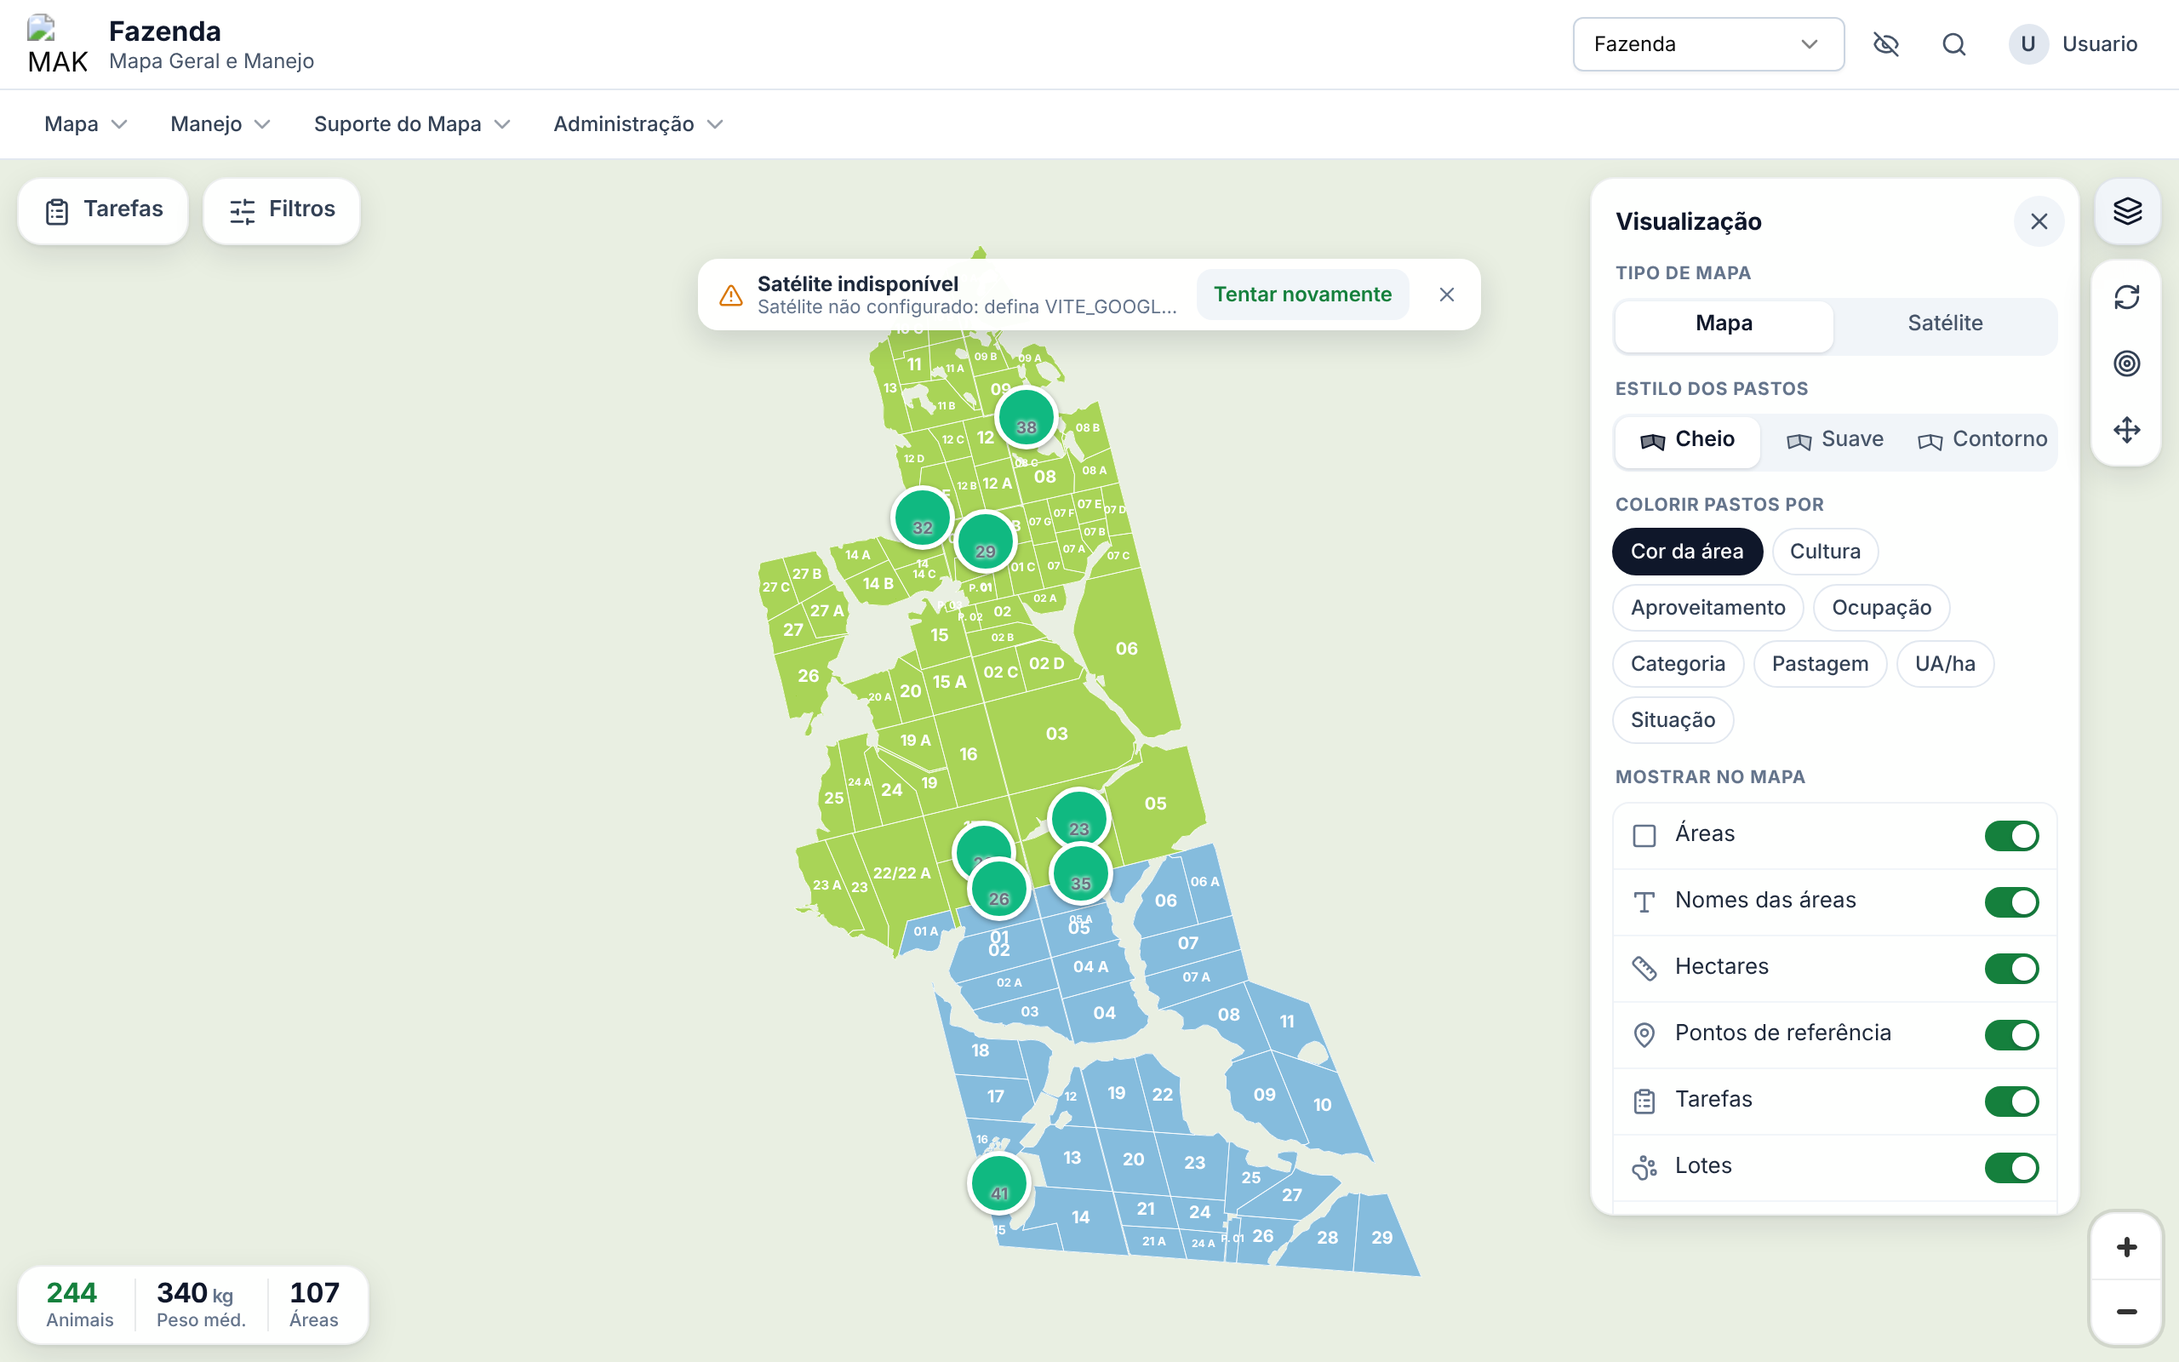
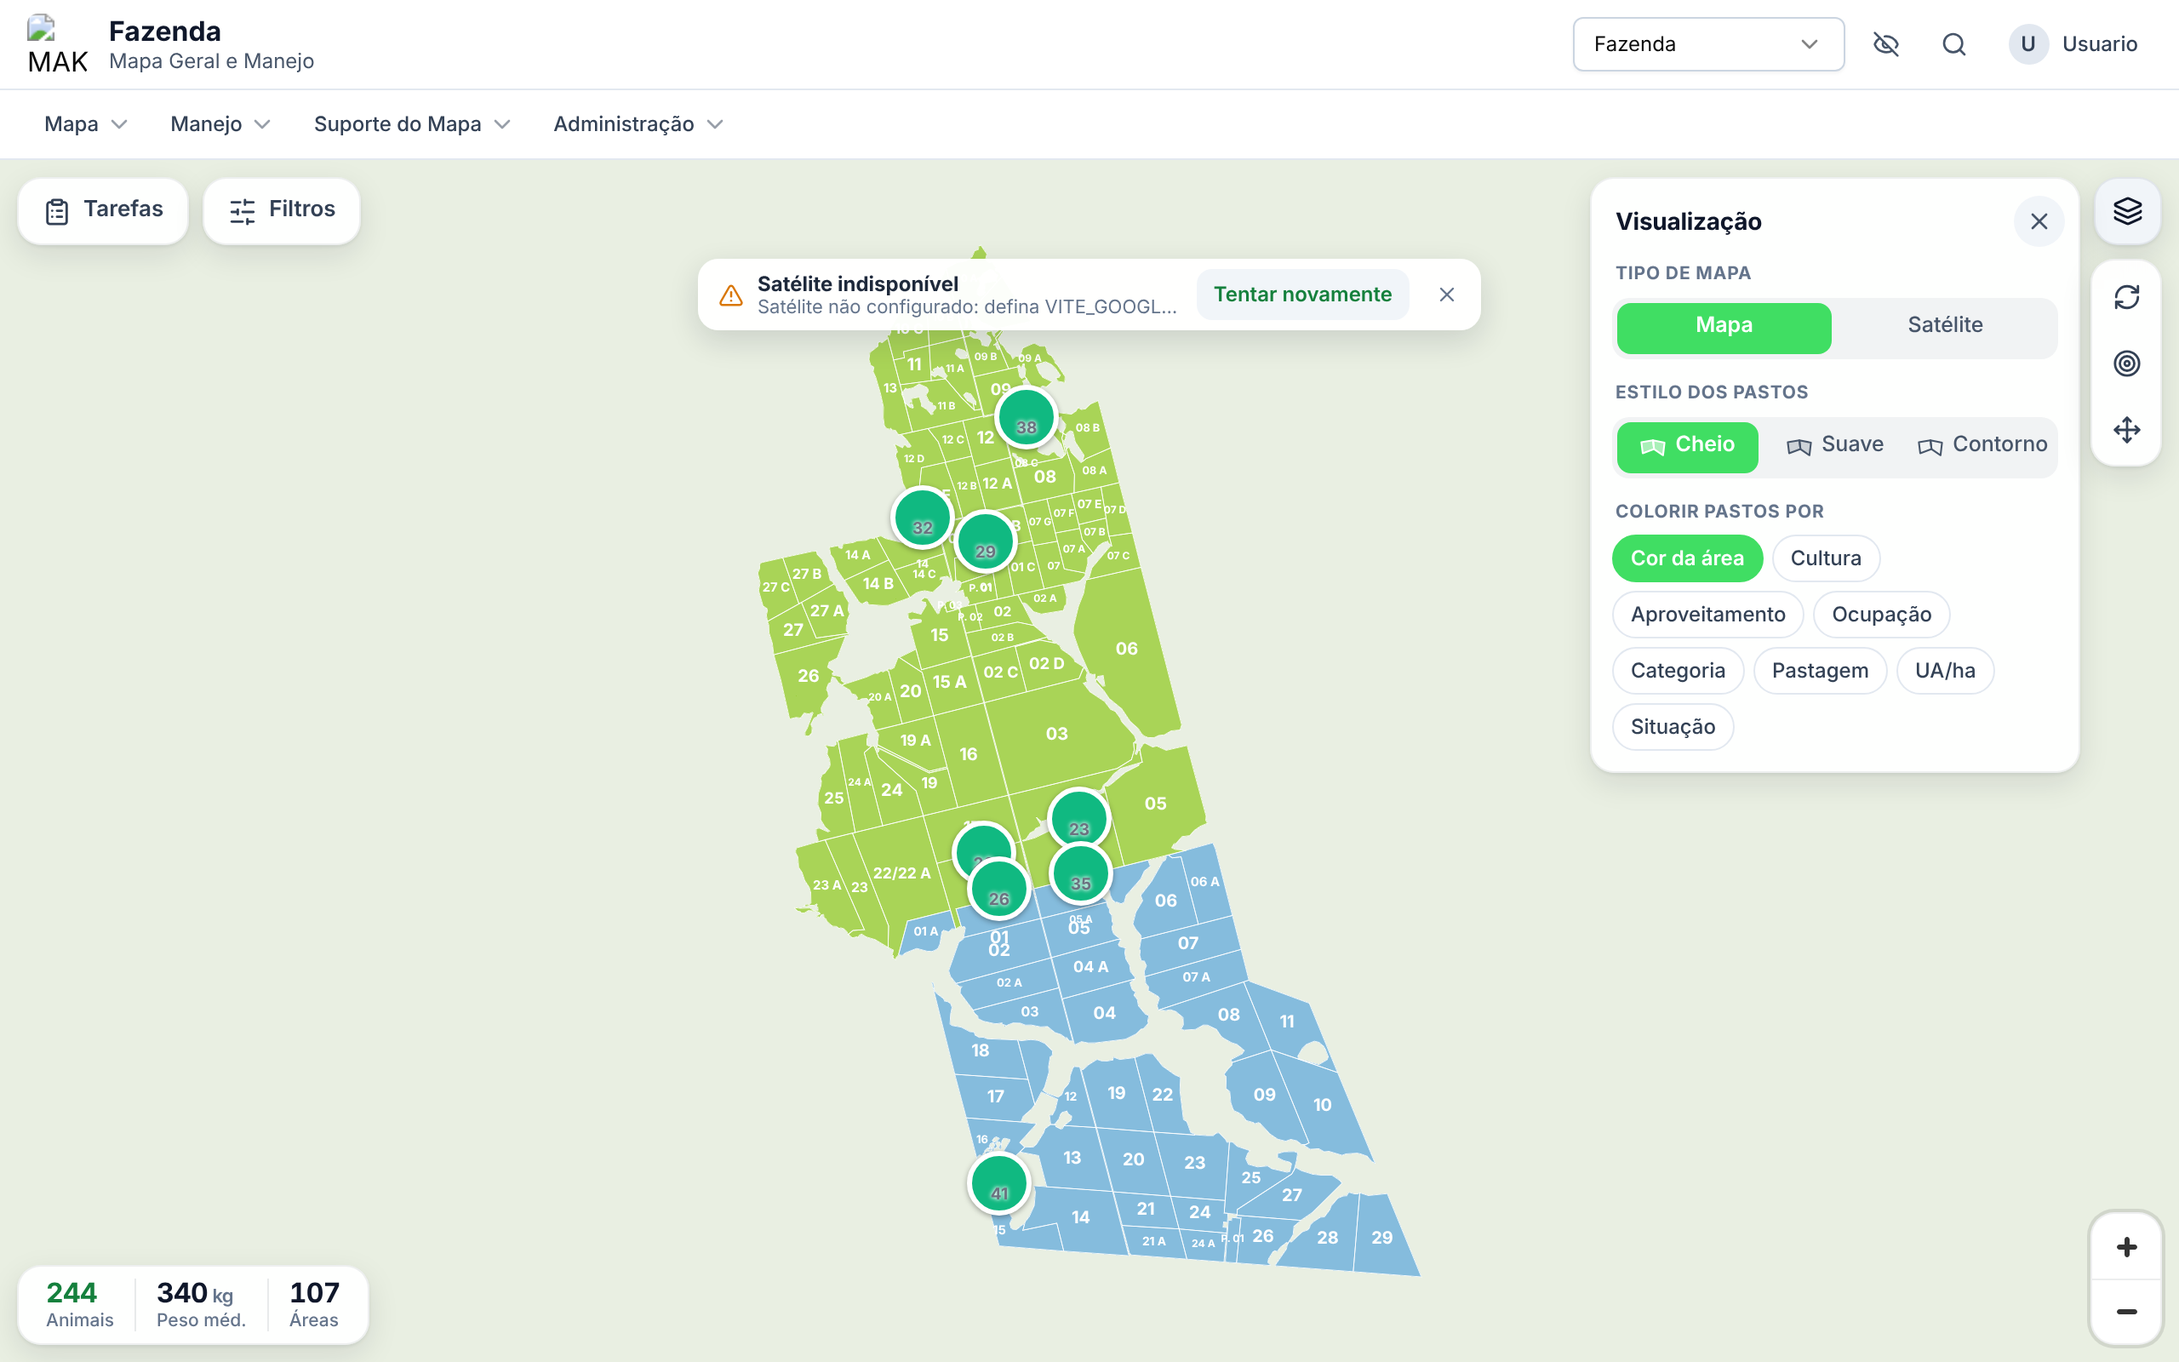
Mapa Geral: mostrar ou não volta para os Filtros; ativo verde e chave igual aos lançamentos (D-PROD-132)
- Visualização só com tipo de mapa, estilo e cores dos pastos.
- Filtros: seção Mostrar no mapa com a chave padrão (ToggleSwitch); remove o switch do shadcn, que ficou sem uso.
- Escolhas do painel com o ativo verde dos lançamentos.

Claude-Session: https://claude.ai/code/session_01UazgFfaVrfzGvoj5VQP7sQ

Changed region(s): [[0.7188, 0.2188, 0.9688, 0.9062], [0.875, 0.2188, 0.9062, 0.25]]

diff --git a/src/components/mapa/MapaFiltrosAvancados.jsx b/src/components/mapa/MapaFiltrosAvancados.jsx
@@ -2,10 +2,10 @@ import React from "react";
 import { Button } from "@/components/ui/button";
 import { Badge } from "@/components/ui/badge";
 import { Select, SelectContent, SelectItem, SelectTrigger, SelectValue } from "@/components/ui/select";
-import { Switch } from "@/components/ui/switch";
 import { Label } from "@/components/ui/label";
 import { Separator } from "@/components/ui/separator";
 import { Input } from "@/components/ui/input";
+import ToggleSwitch from "@/components/common/ToggleSwitch";
 
 // Cores por tipo de cultura
 export const CORES_TIPO_CULTURA = {
@@ -127,12 +127,12 @@ export default function MapaFiltrosAvancados({
   setores = [],
   sistemasProdutivos = [],
   permissions = null,
-  mostrarVisualizacao = true
+  mostrarCores = true
 }) {
 
-  // Camadas e "Demarcar áreas por" vivem no painel Visualização (D-PROD-132);
-  // `mostrarVisualizacao` mantém o painel completo onde ainda for usado.
-  const availableLayers = mostrarVisualizacao ? camadasDoMapa({ showAreas, setShowAreas, showPontos, setShowPontos, showLinhas, setShowLinhas, showLotes, setShowLotes, showTarefas, setShowTarefas, showCochos, setShowCochos, showDepositos, setShowDepositos, showAlertas, setShowAlertas, showUserLocation, setShowUserLocation, showNomesAreas, setShowNomesAreas, showHectaresAreas, setShowHectaresAreas, permissions }) : [];
+  // D-PROD-132: "mostrar ou não" (camadas) fica nos Filtros; o "Demarcar áreas
+  // por" (cores) vai para o painel Visualização quando `mostrarCores` é false.
+  const availableLayers = camadasDoMapa({ showAreas, setShowAreas, showPontos, setShowPontos, showLinhas, setShowLinhas, showLotes, setShowLotes, showTarefas, setShowTarefas, showCochos, setShowCochos, showDepositos, setShowDepositos, showAlertas, setShowAlertas, showUserLocation, setShowUserLocation, showNomesAreas, setShowNomesAreas, showHectaresAreas, setShowHectaresAreas, permissions });
 
   return (
     <div className="rounded space-y-1">
@@ -141,16 +141,14 @@ export default function MapaFiltrosAvancados({
       <>
           <div className="space-y-0 px-1">
             <div className="space-y-0 px-1">
-              <span className="text-xs font-bold text-slate-800 uppercase">Camadas</span>
+              <span className="text-xs font-bold text-slate-800 uppercase">Mostrar no mapa</span>
             </div>
             <div className="space-y-0">
               {availableLayers.map((item) =>
-            <label key={item.label} className="flex items-center justify-between cursor-pointer hover:bg-slate-50 px-2 py-1.5 rounded-lg">
-                  <div className="flex items-center gap-2">
-                    <div className="bg-green-600 text-zinc-50 rounded-full w-2.5 h-2.5" />
-                    <span className="text-xs font-medium text-slate-700">{item.label}</span>
-                  </div>
-                  <Switch checked={item.checked} onCheckedChange={item.onChange} className="scale-75" />
+            <label key={item.label} className="flex items-center justify-between gap-3 cursor-pointer hover:bg-slate-50 px-2 py-1.5 rounded-lg">
+                  <span className="text-xs font-medium text-slate-700">{item.label}</span>
+                  {/* D-PROD-132: mesma chave liga/desliga dos cadastros e lançamentos */}
+                  <ToggleSwitch checked={item.checked} onChange={() => item.onChange()} ariaLabel={item.label} />
                 </label>
             )}
             </div>
@@ -160,7 +158,7 @@ export default function MapaFiltrosAvancados({
       }
 
       {/* ─── Modo de Coloração das Áreas ─── */}
-      {mostrarVisualizacao && permissions?.visualizar_areas !== false &&
+      {mostrarCores && permissions?.visualizar_areas !== false &&
       <div>
           <div className="mb-3">
             <span className="text-xs font-bold text-slate-800 uppercase">DEMARCAR ÁREAS POR</span>
@@ -203,7 +201,7 @@ export default function MapaFiltrosAvancados({
         </div>
       }
 
-      {mostrarVisualizacao && permissions?.visualizar_areas !== false && <Separator />}
+      {mostrarCores && permissions?.visualizar_areas !== false && <Separator />}
 
       {/* ─── Filtros de Áreas ─── */}
       {permissions?.visualizar_areas !== false &&

diff --git a/src/styles/mapa-geral.css b/src/styles/mapa-geral.css
@@ -389,10 +389,10 @@
 /* Escolha segmentada (tipo de mapa, estilo dos pastos) */
 .mk-vis__seg {
   display: flex;
-  gap: 2px;
-  padding: 2px;
+  gap: 4px;
+  padding: 3px;
   border-radius: 10px;
-  background: #f1f5f9;
+  background: #f1f3f4;
 }
 .mk-vis__seg-op {
   display: inline-flex;
@@ -408,11 +408,12 @@
   color: #475569;
 }
 .mk-vis__seg-op:hover { color: var(--mk-mapa-texto); }
-.mk-vis__seg-op[aria-pressed="true"] {
-  background: #fff;
-  box-shadow: 0 1px 2px rgba(15, 23, 42, 0.12);
+/* Escolhida = igual aos lançamentos (LancLoteSegmento): verde do sistema, texto branco */
+.mk-vis__seg-op[aria-pressed="true"],
+.mk-vis__seg-op[aria-pressed="true"]:hover {
+  background: var(--mg-accent, #40de63);
   font-weight: 600;
-  color: var(--mk-mapa-texto);
+  color: #fff;
 }
 .mk-vis__ico { width: 16px; height: 12px; flex: none; }
 .mk-vis__ico path { stroke: currentColor; stroke-width: 1.3; stroke-linejoin: round; fill: currentColor; }
@@ -433,7 +434,7 @@
   color: #334155;
 }
 .mk-vis__chip:hover { background: #f8fafc; }
-.mk-vis__chip[aria-pressed="true"] { border-color: var(--mk-mapa-texto); background: var(--mk-mapa-texto); color: #fff; }
+.mk-vis__chip[aria-pressed="true"] { border-color: var(--mg-accent, #40de63); background: var(--mg-accent, #40de63); font-weight: 600; color: #fff; }
 
 /* Mostrar no mapa: linhas com chave liga/desliga */
 .mk-vis__lista { margin: 0; padding: 0; list-style: none; border-radius: 10px; border: 1px solid #eef2f6; overflow: hidden; }
@@ -452,29 +453,7 @@
 .mk-vis__linha:hover { background: #f8fafc; }
 .mk-vis__linha-ic { flex: none; color: #64748b; }
 .mk-vis__linha-txt { flex: 1; min-width: 0; overflow: hidden; white-space: nowrap; text-overflow: ellipsis; }
-.mk-vis__chave {
-  position: relative;
-  flex: none;
-  width: 32px;
-  height: 18px;
-  border-radius: 9999px;
-  background: #cbd5e1;
-  transition: background-color 0.15s;
-}
-.mk-vis__chave::after {
-  content: "";
-  position: absolute;
-  top: 2px;
-  left: 2px;
-  width: 14px;
-  height: 14px;
-  border-radius: 9999px;
-  background: #fff;
-  box-shadow: 0 1px 2px rgba(15, 23, 42, 0.25);
-  transition: transform 0.15s;
-}
-.mk-vis__linha[aria-checked="true"] .mk-vis__chave { background: var(--mk-mapa-verde); }
-.mk-vis__linha[aria-checked="true"] .mk-vis__chave::after { transform: translateX(14px); }
+.mk-vis__linha .mk-ios-switch { pointer-events: none; }
 .mk-vis__seg-op:focus-visible,
 .mk-vis__chip:focus-visible,
 .mk-vis__linha:focus-visible {

diff --git a/src/pages/MapaGeral.jsx b/src/pages/MapaGeral.jsx
@@ -26,7 +26,7 @@ import MapaInsights from "../components/mapa/MapaInsights";
 import MapaControlesMobile from "../components/mapa/MapaControlesMobile";
 import MapaFiltrosAvancados, {
   CORES_TIPO_CULTURA, CORES_APROVEITAMENTO, CORES_OCUPACAO, CORES_CATEGORIA_GADO,
-  CORES_UA_HA, CORES_SITUACAO_PASTO, camadasDoMapa } from
+  CORES_UA_HA, CORES_SITUACAO_PASTO } from
 "../components/mapa/MapaFiltrosAvancados";
 import MapaVisualizacao from "../components/mapa/MapaVisualizacao";
 import MapaLegenda from "../components/mapa/MapaLegenda";
@@ -1049,13 +1049,7 @@ export default function MapaGeral() {
             mapType={mapTypeEfetivo} setMapType={setMapType}
             estiloPasto={estiloPasto} setEstiloPasto={setEstiloPasto}
             modoColoracao={modoColoracao} setModoColoracao={setModoColoracao}
-            podeColorir={mapaGeralPermissions.visualizar_filtros_camadas !== false && mapaGeralPermissions.visualizar_areas !== false}
-            camadas={mapaGeralPermissions.visualizar_filtros_camadas === false ? [] : camadasDoMapa({
-              showAreas, setShowAreas, showPontos, setShowPontos, showLinhas, setShowLinhas, showLotes, setShowLotes,
-              showTarefas: showTaskIcons, setShowTarefas: setShowTaskIcons, showCochos, setShowCochos, showDepositos, setShowDepositos,
-              showAlertas, setShowAlertas, showUserLocation, setShowUserLocation, showNomesAreas, setShowNomesAreas,
-              showHectaresAreas, setShowHectaresAreas, permissions: mapaGeralPermissions
-            })} />
+            podeColorir={mapaGeralPermissions.visualizar_filtros_camadas !== false && mapaGeralPermissions.visualizar_areas !== false} />
           } />
 
 
@@ -1138,7 +1132,7 @@ export default function MapaGeral() {
               setores={setores}
               sistemasProdutivos={sistemasProdutivos}
               permissions={mapaGeralPermissions}
-              mostrarVisualizacao={false} />
+              mostrarCores={false} />
 
           </div>
         </SheetContent>

diff --git a/src/components/mapa/MapaVisualizacao.jsx b/src/components/mapa/MapaVisualizacao.jsx
@@ -49,8 +49,8 @@ function MiniEstilo({ estilo }) {
 /**
  * Painel "Visualização" do Mapa Geral (D-PROD-132): como o mapa é desenhado,
  * em controles discretos — tipo de mapa e estilo dos pastos em escolhas
- * segmentadas, "colorir pastos por" em lista curta e "mostrar no mapa" em
- * linhas com chave liga/desliga. Os Filtros ficam só com o que filtra os dados.
+ * segmentadas e "colorir pastos por" em fichas pequenas. O "mostrar ou não"
+ * (camadas) fica no botão Filtros; `camadas` aqui é opcional.
  *
  * @param {{
  *   mapType: string, setMapType: (t: string) => void,
@@ -119,7 +119,10 @@ export default function MapaVisualizacao({ mapType, setMapType, estiloPasto, set
                   <button type="button" role="switch" aria-checked={c.checked} className="mk-vis__linha" onClick={c.onChange}>
                     <Icone size={16} aria-hidden className="mk-vis__linha-ic" />
                     <span className="mk-vis__linha-txt">{ui.label}</span>
-                    <span className="mk-vis__chave" aria-hidden />
+                    {/* mesma chave liga/desliga dos cadastros e lançamentos (ToggleSwitch) */}
+                    <span className={`mk-ios-switch${c.checked ? " is-on" : ""}`} aria-hidden>
+                      <span className="mk-ios-switch__thumb" />
+                    </span>
                   </button>
                 </li>
               );

diff --git a/tests/smoke/mobileV7Chave.test.jsx b/tests/smoke/mobileV7Chave.test.jsx
@@ -3,7 +3,7 @@
  * trilho 60×28, cápsula 38×24 que estica ao pressionar e chega com mola.
  */
 import { describe, it, expect } from 'vitest';
-import { readFileSync } from 'node:fs';
+import { existsSync, readFileSync } from 'node:fs';
 
 const css = () => readFileSync('src/styles/maike-mobile-shell.css', 'utf8');
 
@@ -34,10 +34,9 @@ describe('V7/V8 — chave do iOS', () => {
     expect(css()).toMatch(/\.cadastro-b1 \.b1-chave-row:not\(#mk-padrao\) \{\s*justify-content: flex-start;/);
   });
 
-  it('V7-4 — Switch do shadcn usa as classes do padrão', () => {
-    const fonte = readFileSync('src/components/ui/switch.jsx', 'utf8');
-    expect(fonte).toMatch(/"mk-switch peer/);
-    expect(fonte).toMatch(/"mk-switch__thumb /);
+  it('V7-4 — sem Switch do shadcn: as chaves do sistema são o ToggleSwitch e o B1Switch (D-PROD-132)', () => {
+    expect(existsSync('src/components/ui/switch.jsx')).toBe(false);
+    expect(readFileSync('src/components/mapa/MapaFiltrosAvancados.jsx', 'utf8')).toMatch(/<ToggleSwitch /);
   });
 
   it('V8-1 — pressionar estica a bolinha nas três chaves', () => {

diff --git a/tests/smoke/mapaV2Visualizacao.test.jsx b/tests/smoke/mapaV2Visualizacao.test.jsx
@@ -39,10 +39,14 @@ describe("Shell e controles (D-PROD-132)", () => {
     expect(screen.queryByRole("dialog", { name: "Visualização" })).toBeNull();
   });
 
-  it("Filtros não repete as camadas nem o 'Demarcar áreas por'", () => {
+  it("Filtros fica com o mostrar ou não; Visualização fica com tipo de mapa, estilo e cores", () => {
     const mg = readFileSync("src/pages/MapaGeral.jsx", "utf8");
-    expect(mg).toMatch(/mostrarVisualizacao=\{false\}/);
+    expect(mg).toMatch(/mostrarCores=\{false\}/);
     expect(mg).toMatch(/<MapaVisualizacao/);
+    expect(mg).not.toMatch(/camadas=\{/);
+    const filtros = readFileSync("src/components/mapa/MapaFiltrosAvancados.jsx", "utf8");
+    expect(filtros).toMatch(/const availableLayers = camadasDoMapa\(/);
+    expect(filtros).toContain(">Mostrar no mapa</span>");
   });
 });
 

diff --git a/docs/engineering/DECISIONS.md b/docs/engineering/DECISIONS.md
@@ -5072,16 +5072,18 @@ Em cada cadeia: bloqueio antes do clique, exclusão do dependente, desbloqueio s
     - Tarefas e Filtros ficam em cartões;
     - Atualizar, Localizar e Mover ficam num grupo;
     - o estilo dos pastos é aplicado por `aplicarEstiloPasto` e reaplicado ao trocar o basemap;
-    - os Filtros ficam sem as camadas e as cores (`mostrarVisualizacao={false}`);
+    - os Filtros ficam sem as cores (`mostrarCores={false}`), que passam para o painel Visualização;
     - a atribuição do satélite fica discreta e o aviso de falha compacto.
   - O painel **Visualização** (`MapaVisualizacao`), no lugar das miniaturas grandes e coloridas:
-    - **Tipo de mapa** e **Estilo dos pastos** viram escolhas segmentadas, em cinza, com a opção escolhida em branco. O estilo leva um desenho pequeno de traço.
-    - **Colorir pastos por** vira fichas pequenas, com a escolhida em grafite.
-    - **Mostrar no mapa** vira uma lista com uma **chave liga/desliga** por camada (`role="switch"`), com ícone cinza e nome completo.
-  - O painel tem 288 px de largura e os botões flutuantes 40 px. O botão Visualização aberto fica cinza-claro, sem verde.
+    - **Tipo de mapa** e **Estilo dos pastos** viram escolhas segmentadas. O estilo leva um desenho pequeno de traço.
+    - **Colorir pastos por** vira fichas pequenas.
+    - A cor do ativo segue a dos lançamentos (`LancLoteSegmento`), como pediu o proprietário: a opção escolhida fica no verde do sistema (`--mg-accent`), com texto branco, sobre o trilho #f1f3f4.
+    - As chaves liga/desliga usam a chave padrão do sistema (`ToggleSwitch`, `mk-ios-switch`), a mesma dos cadastros e lançamentos.
+    - O **mostrar ou não** (camadas) fica no botão **Filtros**, a pedido do proprietário ("separe filtros de tipo de visualização"), na seção "Mostrar no mapa", com uma chave liga/desliga por camada. O painel Visualização ainda aceita a lista opcional `camadas`, com chaves `role="switch"`, mas o Mapa Geral não a usa.
+  - O painel tem 288 px de largura e os botões flutuantes 40 px. O botão Visualização aberto fica cinza-claro.
 - **Consequência:**
-  - O painel mostra as mesmas opções em menos espaço, quase sem cor; o verde fica só nas chaves ligadas.
+  - Visualização trata de como o mapa é desenhado e Filtros do que aparece nele. O painel ficou curto e tem o mesmo ativo verde dos lançamentos.
   - Teste: `tests/smoke/mapaV2Visualizacao.test.jsx`.
-  - Evidências: v22-01 a v22-04.
+  - Evidências: v22-01 a v22-06.
 
 <!-- Próxima decisão: D-PROD-133 -->

diff --git a/docs/engineering/UX-MOBILE-V2-REPORT.md b/docs/engineering/UX-MOBILE-V2-REPORT.md
@@ -343,7 +343,7 @@ O novo visual dos botões do Mapa Geral (D-PROD-131: painel Visualização, sem 
 |---|---|---|
 | Voltar o visual dos botões do mapa (sem o ✕, estilos Cheio, Suave e Contorno, tela de entrada) | Código do #197 de volta, sem o menu lateral e sem o botão de fazenda | v22-01, v22-04 |
 | Não tão grande nem colorido | Escolhas segmentadas em cinza, fichas pequenas, painel de 288 px e botões de 40 px | v22-02, v22-03 |
-| "Mostrar no mapa" como ativo ou inativo | Lista com uma chave liga/desliga por camada | v22-02, v22-03 |
+| "Mostrar no mapa" como ativo ou inativo, e separado da visualização | Fica no botão Filtros, com uma chave liga/desliga por camada; Visualização só com tipo de mapa, estilo e cores | v22-02, v22-03, v22-05 |
 
 **Não testado em aparelho.**
 
